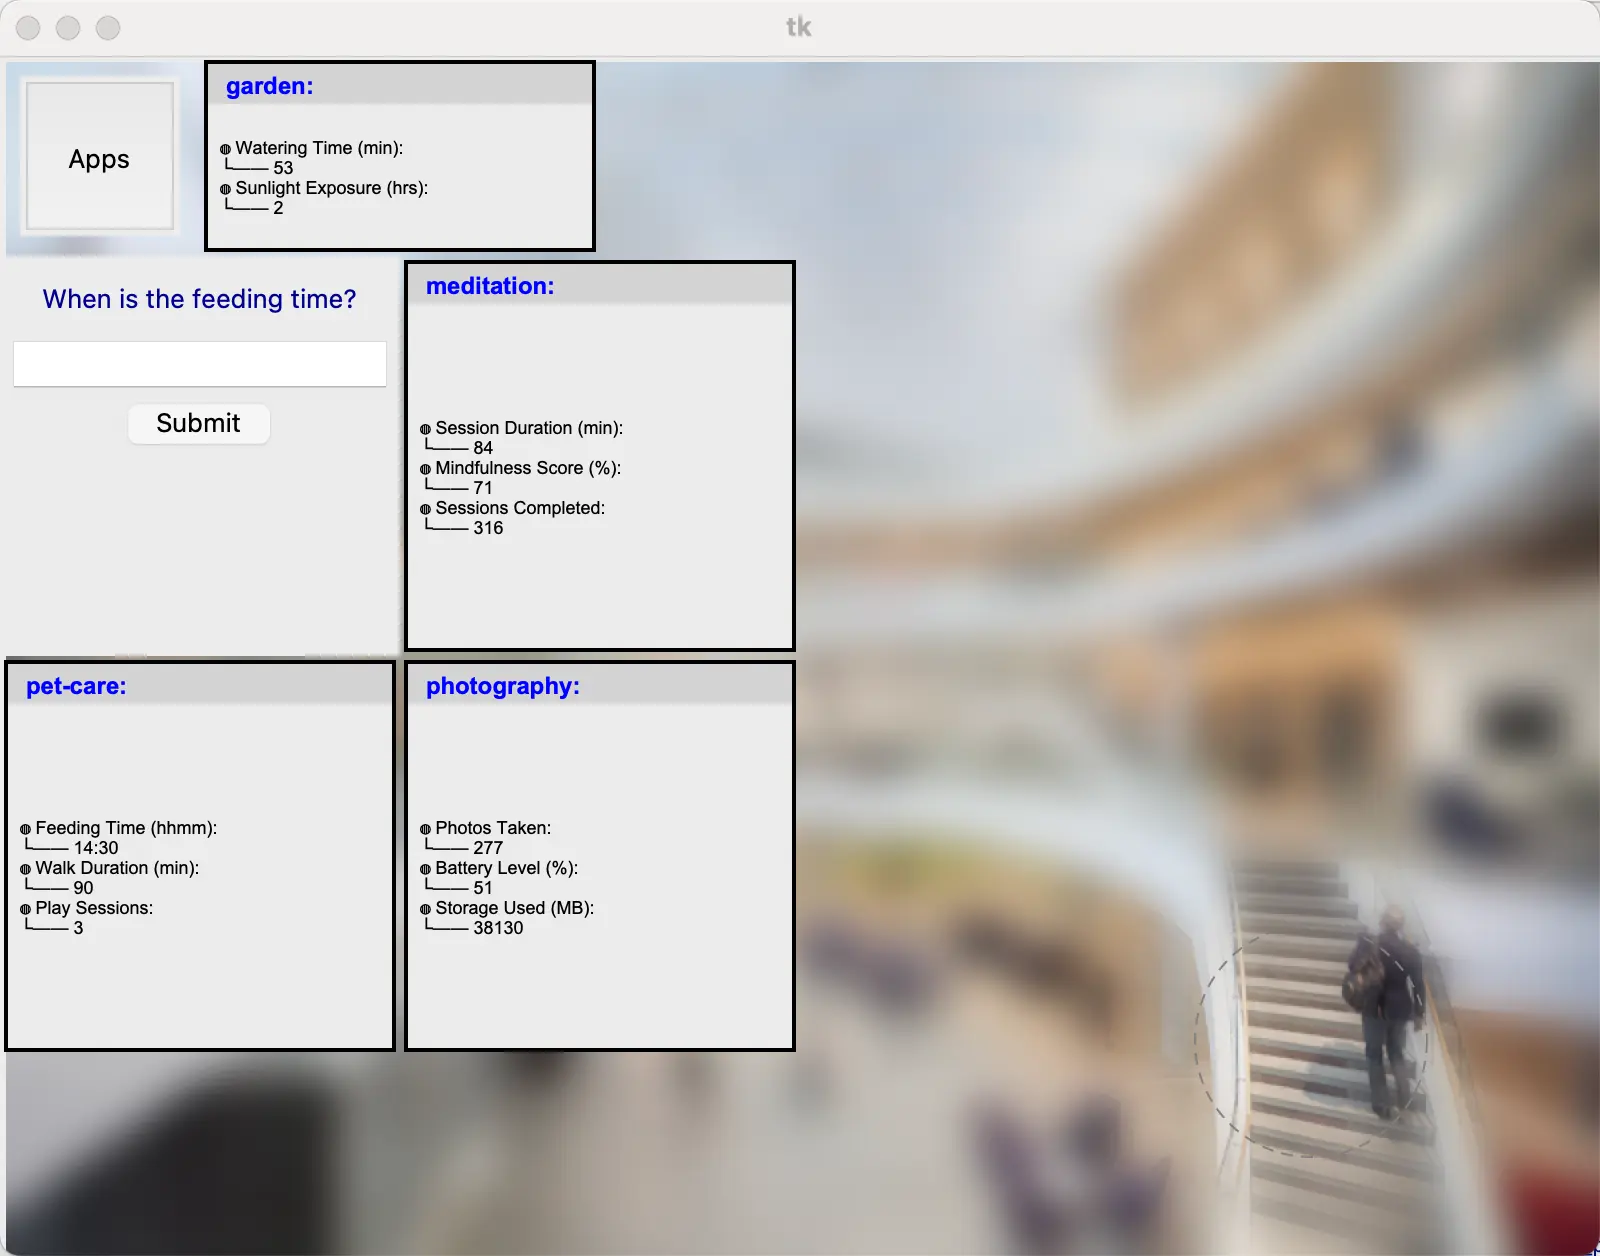
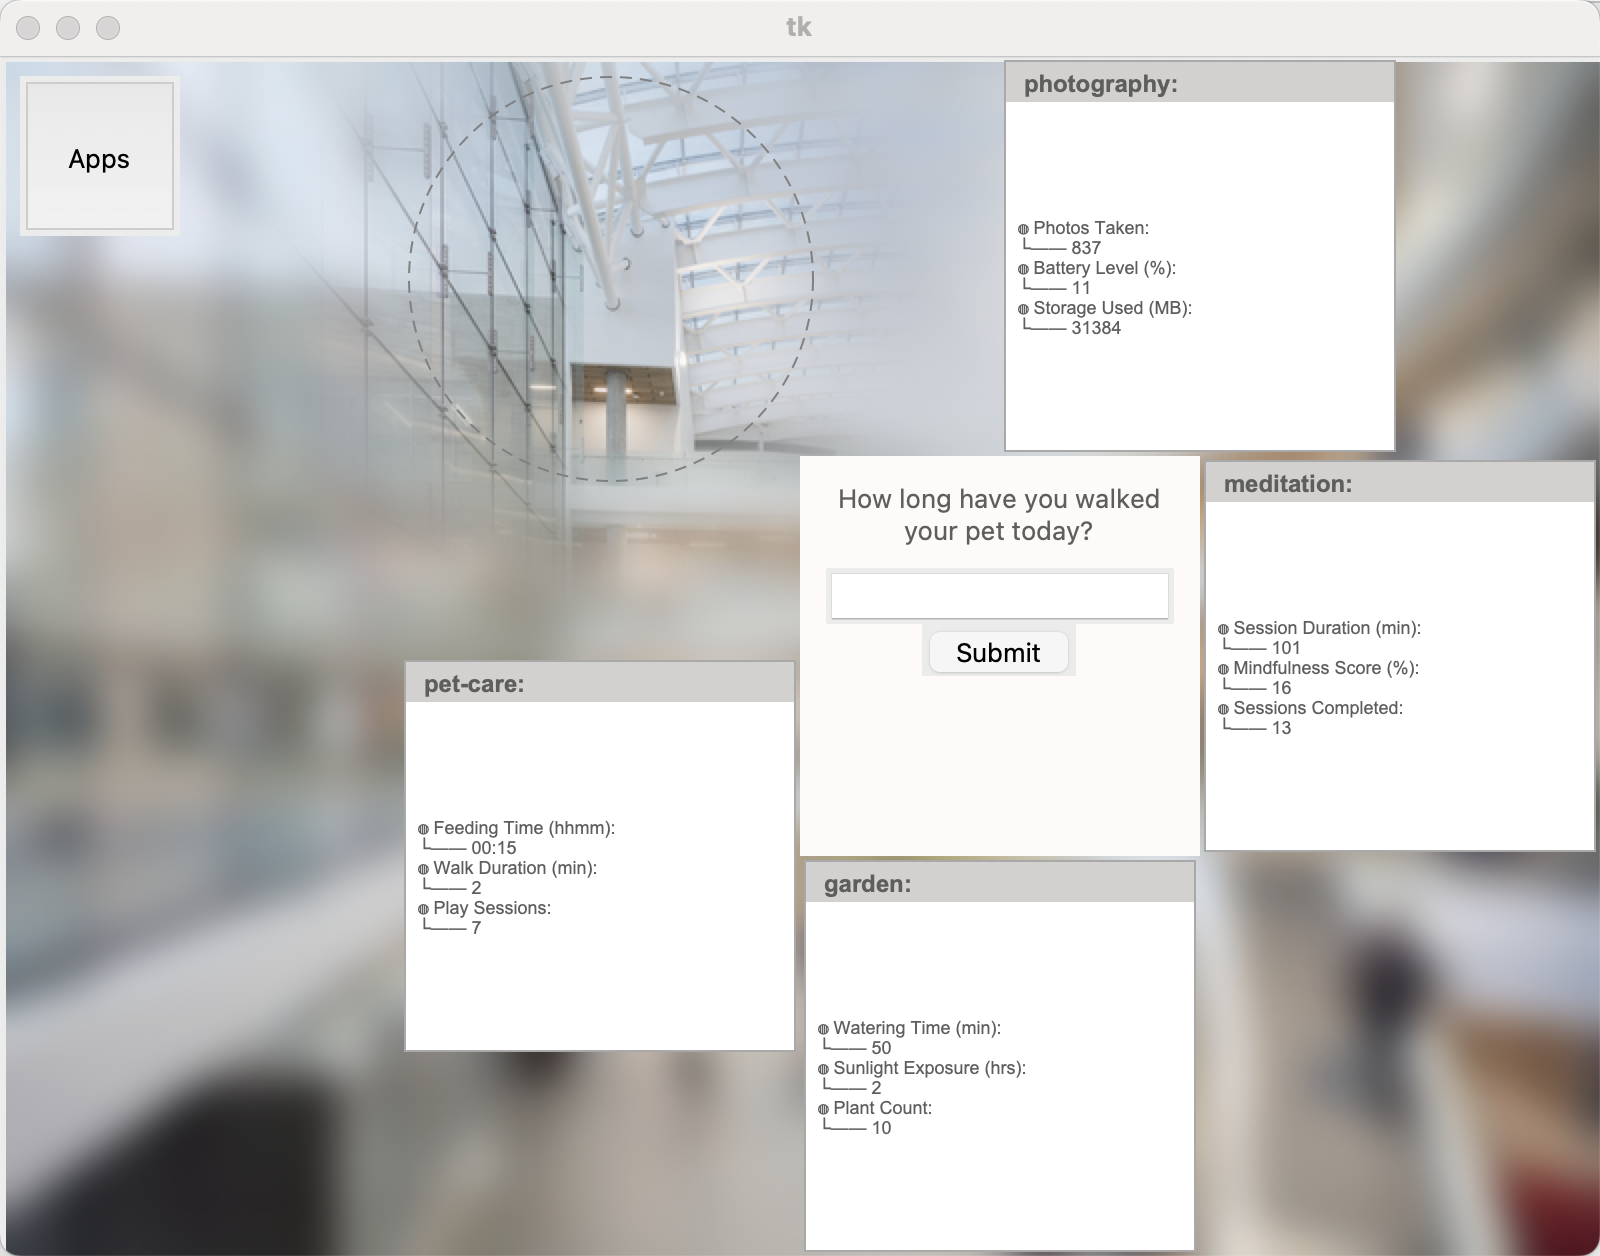
update project

diff --git a/projects/ada2d/ada2d.md b/projects/ada2d/ada2d.md
@@ -1,7 +1,38 @@
 ## 1. Background, Goal, and Workflow
 Augmented Reality promises to transform how we interact with digital information. Through blending virtual interface elements into our physical environment, it enables a range of applications from in situ displays of task instructions for training purposes to immersive educational experiences. However, placing interface elements within our physical world also makes designing AR applications incredibly difficult as they should be "context-sensitive". For the lack of words, the "goodness" of interface designs now depends on the environmental conditions (e.g., what objects are around the user) as well as external (e.g., task) and internal (e.g., cognitive load) states. Hence, UI decisions can no longer be set deterministically at design time, but adapt according to their context of use at runtime. 
 
-In this project, I aim to present the application widgets more effectively using an optimization-based approach.
+### 1.1 Project Goal
+
+
+In this project which mimics the AR context in a low-fidelity prototype in python, I aim to present the application widgets more effectively using an optimization-based approach, taking into account:
+
+〓 Constraints to make the UI placement looks normal:
+- Non-overlap
+- Place <= 4 elements
+- Single placement per app
+
+〓 Objectives to help users to efficiently find the information they need:
+- Proximity to the starting point
+- App relevance to the question
+- LoD (Levels of Details) of each widget
+- ROI (Region of Interest) of the scene
+
+`Gurobipy` is used to solve the optimization problem.
+
+<figure>
+<img src="prompt.png">
+<figcaption>The components of the system interface: all the components are placed in a 2D plane</figcaption>
+</figure>
+
+Each widget has 3 levels of details (LoD), and the size of the widget is determined by the LoD.
+
+<figure>
+<img src="lod.png">
+<figcaption>LoD: levels of details</figcaption>
+</figure>
+
+
+### 1.2 Workflow
 
 <figure>
 
@@ -81,36 +112,15 @@ pos = np.array([pos_x*grid_a, pos_y*grid_a])
 # Check overlap with Apps button
 ```
 
-### 3.2 Objective
-#### 3.2.1 Normalization of each Term
 
-- Before: Directly used raw numerical values for calculations, making it difficult to tweak the weights, as the parameters were not on the same scale.  
+### 3.2 UI visual optimization
 
-- After:  
-     – Introduced a `normalize_terms()` helper function to compute and return normalized parameters.  
-     – After normalization, all terms are ensured to have proper scales.
-
-#### 3.2.2 Term: ROI Overlapping Detectings 
-
-- The original formulation computes a fixed reference point (typically the bottom-left of the grid) and applies a penalty if its distance to the ROI center is less than `roi_rad`, thereby ignoring the full area that the UI element might occupy.
-
-- During testing, I noticed that the console output showed ROI overlaps being penalized cumulatively. 
-
-- So I revised the penalty rule by changing the ROI overlap detection mechanism to use the circle_rectangle_overlap helper function, which iterates through each grid and applies a weighted penalty if the widget overlaps with the ROI.
-
-#### 3.2.3 Term: Question Proximity
-- adjust the  distance calculation method
-	- Before: Directly used the top-left corner coordinates to calculate distances, without considering the actual center position of the widget.  
-	- After: Introduced a more precise definition of the widget's center point for LoD:  
-	     - For **LoD0**, `(xIdx + 0.5) * grid_a, (yIdx + 0.5) * grid_a`
-	     - For **LoD1**, `(xIdx + 1.0) * grid_a, (yIdx + 0.5) * grid_a`
-	     - For **LoD2**,  `(xIdx + 1.0) * grid_a, (yIdx + 1.0) * grid_a`
-
-### 3.3 UI visual optimization
-
-- I used pillow to blur the background scene when keeping the attention focus zone clear to mimic the focus in Augmented Reality context.
-- I color coded different items and add indents to organized the information hierarchy.
-- I also added paddings to each widget to make them not stick to each other, hoping this can add more clarity.
+- **Mimic AR focus zone by blurring the background** 
+    - I used pillow to blur the background scene when keeping the attention focus zone clear to mimic the focus in Augmented Reality context.
+- **Adaptive Color coding** 
+    - I color coded titles and contents in widgets and add indents to organized the information hierarchy. The theme color is adaptive to the background scene by calculating the average color of the background.
+- **Padding** 
+    - I also added paddings to each widget to make them not stick to each other, hoping this can add more clarity.
   
 ## 4. Three Initial Formulations
 
@@ -122,9 +132,9 @@ For example, for the first term $J_{prox}$, I developed an alternative way to fo
 
 <figure>
 
-<img src="strategy.png">
+<img src="strategy.gif">
 
-<figcaption>Variants of terms is the objective function</figcaption>
+<figcaption>Combinition of term variants in the objective function</figcaption>
 
 </figure>
 
@@ -160,36 +170,6 @@ where:
   - $l=1$: $[(i + 1.0)a, (j + 0.5)a]$
   - $l=2$: $[(i + 1.0)a, (j + 1.0)a]$
 
-```bash
-# 1. Reward proximity to question panel
-questionProximityTerm = 0
-for app in app_ids:
-    for lod in range(scene_UI.LODS):
-        for xIdx in range(scene_UI.COLS):
-            for yIdx in range(scene_UI.ROWS):
-                # widget center
-                if lod == 0:  # 1x1
-                    pos = np.array([
-                        (xIdx + 0.5) * grid_a,  
-                        (yIdx + 0.5) * grid_a
-                    ])
-                elif lod == 1:  # 1x2
-                    pos = np.array([
-                        (xIdx + 1.0) * grid_a,
-                        (yIdx + 0.5) * grid_a
-                    ])
-                else:  # lod 2, 2x2
-                    pos = np.array([
-                        (xIdx + 1.0) * grid_a,  
-                        (yIdx + 1.0) * grid_a
-                    ])
-                
-                dist_to_questions = np.sqrt(np.sum((pos - q_center)**2))
-                normalized_dist = ((dist_to_questions - norm_params['q_min_dist']) / 
-                                (norm_params['q_max_dist'] - norm_params['q_min_dist']))
-                questionProximityTerm -= normalized_dist * x[app, lod, xIdx, yIdx]
-
-```
 
 This term is to make all the widgets surrounded with the question panel.
 
@@ -203,14 +183,7 @@ where:
 - $r_a$ is the relevance score of application $a$
 - $\gamma_r = \frac{r - r_{min}}{r_{max} - r_{min}}$ is the relevance normalization factor, 1 here
 
-```bash
-# 2. Relevance term
-relevanceTerm = sum(rele[app] * x[app, lod, xIdx, yIdx]
-					for app in app_ids
-					for lod in range(scene_UI.LODS)
-					for xIdx in range(scene_UI.COLS)
-					for yIdx in range(scene_UI.ROWS))
-```
+
 
 This term prioritizes apps with higher relevance scores to show up.
 
@@ -223,17 +196,6 @@ $$
 where :
 - $γ$ is the normalization factor
 
-```bash
-# 3. LoD reward
-lodRewardTerm = sum(
-    ((lod + 1)  - norm_params['min_lod_reward']) / (norm_params['max_lod_reward'] -norm_params['min_lod_reward'])) 
-    * x[app, lod, xIdx, yIdx]
-    for app in app_ids
-    for lod in range(scene_UI.LODS)
-    for xIdx in range(scene_UI.COLS)
-    for yIdx in range(scene_UI.ROWS)
-)
-```
 
 This term is set for using as large levels of details as possible when conditions permit.
 
@@ -250,24 +212,6 @@ $$
 - $x_{a,l,i,j}$ is the decision variable
 - $γ$ is the normalization factor
 
-```bash
-# 4. ROI avoidance term
-roiAvoidanceTerm = 0
-for app in app_ids:
-    for lod in range(scene_UI.LODS):
-        for xIdx in range(scene_UI.COLS):
-            for yIdx in range(scene_UI.ROWS):
-                # rect zone
-                rect_x, rect_y = xIdx * grid_a, yIdx * grid_a
-                rect_width, rect_height = grid_a, grid_a
-                if lod > 0:
-                    rect_width = 2 * grid_a
-                if lod > 1:
-                    rect_height = 2 * grid_a  
-                # check overlapping: * use methods in "UI.py" about line 440ish (search: self.overlapping += 1)
-                if circle_rectangle_overlap(circle_x, circle_y, circle_radius, rect_x, rect_y, rect_width, rect_height):
-                    roiAvoidanceTerm -= (poi_pan - norm_params['min_roi_penalty']) /                    (norm_params['max_roi_penalty'] - norm_params['min_roi_penalty']) * x[app, lod, xIdx, yIdx]
-```
 
 This term penalizes placements that fall within a sensitive region (ROI). The penalty linearly adds up with the overlapping girds counts adding up.
 
@@ -300,38 +244,23 @@ where:
   - $l=1$: $[(i + 1.0)a, (j + 0.5)a]$
   - $l=2$: $[(i + 1.0)a, (j + 1.0)a]$
 
-```bash
-# 1. Reward proximity to question panel with higher rele
-questionProximityTerm = 0
-for app in app_ids:
-    for lod in range(scene_UI.LODS):
-        for xIdx in range(scene_UI.COLS):
-            for yIdx in range(scene_UI.ROWS):
-                # widget center
-                if lod == 0:  # 1x1
-                    pos = np.array([
-                        (xIdx + 0.5) * grid_a,  
-                        (yIdx + 0.5) * grid_a
-                    ])
-                elif lod == 1:  # 1x2
-                    pos = np.array([
-                        (xIdx + 1.0) * grid_a,  # center of 2 grids
-                        (yIdx + 0.5) * grid_a
-                    ])
-                else:  # lod 2, 2x2
-                    pos = np.array([
-                        (xIdx + 1.0) * grid_a,  
-                        (yIdx + 1.0) * grid_a
-                    ])
-                
-                dist_to_questions = np.sqrt(np.sum((pos - q_center)**2))
-                normalized_dist = ((dist_to_questions - norm_params['q_min_dist']) / 
-                                (norm_params['q_max_dist'] - norm_params['q_min_dist']))
-                questionProximityTerm += rele[app] * (1 - normalized_dist) * x[app, lod, xIdx, yIdx]
-```
 
 - goal: make questions with higher relevances nearer to the question panel
 - I use `(1 - normalized_dist)` multiplied by the relevance of the app (`rele[app]`) to incentivize higher scores for apps that are both closer to the question area and have higher relevance. In this way, it still measures the negative correlation between the distance and the rewards, and also incorporate the relationship between relevance and distance.
+
+#### 4.2.3 Initial Formulation C: 0010
+
+$$ 
+\begin{align*}
+\max_{x} \quad & w_{prox}J_{prox} + w_{rel}J_{rel} + w_{lod}J_{LoD} + w_{roi}J_{ROI} \newline
+\text{where:} \newline
+J_{prox} &= -\sum_{a,l,i,j} \gamma_d \cdot d_{l,i,j} \cdot x_{a,l,i,j} \newline
+J_{rel} &= \sum_{a,l,i,j} \gamma_r \cdot r_a \cdot x_{a,l,i,j} \newline
+J_{LoD} &= \sum_{a,l,i,j} \gamma_{lod} \cdot \frac{r_a(l + 1)}{L} \cdot x_{a,l,i,j} \newline
+J_{ROI} &= -\sum_{a,l,i,j} \gamma_{roi} \cdot x_{a,l,i,j} \cdot \mathbb{I}\{overlap(l,i,j)\}
+\end{align*}
+$$
+
 
 
 ###### LoD_1
@@ -342,17 +271,6 @@ $$
 
 where L is the total number of LoD levels
 
-```bash
-# 3. add correlation between relevane and lod
-lodRewardTerm = sum(
-    ((rele[app] * (lod + 1) / 3 - norm_params['min_lod_reward']) / (norm_params['max_lod_reward'] -norm_params['min_lod_reward'])) 
-    * x[app, lod, xIdx, yIdx]
-    for app in app_ids
-    for lod in range(scene_UI.LODS)
-    for xIdx in range(scene_UI.COLS)
-    for yIdx in range(scene_UI.ROWS)
-)
-```
 
 - context：As the code background shows, Weather is with the highest relevance. It appears in the nearest position, which is quiet reasonable. But it is with the lowest LoD. This is a failed trade-off between proximity and LoD.
 	- ![[viarant_3.webp|547]]
@@ -421,6 +339,14 @@ However, there are also issues. In the scene 1, time is not sensitive for semant
 
 ## 6. Final Formulation
 
+<figure>
+
+<img src="ff.png">
+
+<figcaption>Final formulation recipe "1010"</figcaption>
+
+</figure>
+
 Since Formulation B and C perform better than Formulation A, so I combined them together as the final formulation and assumed it is good. To validate the assumption, I did a user test and logged the data.
 
 <figure>
@@ -447,7 +373,7 @@ J_{ROI} &= -\sum_{a,l,i,j} \gamma_{roi} \cdot x_{a,l,i,j} \cdot \mathbb{I}\{over
 $$
 
 
-#### 6.1.1 Proximity_0
+#### 6.1.1 Proximity_1
 
 $$ 
 J_{prox} = \sum_{a,l,i,j} r_a \cdot (1 - \gamma_d \cdot d_{l,i,j}) \cdot x_{a,l,i,j}
